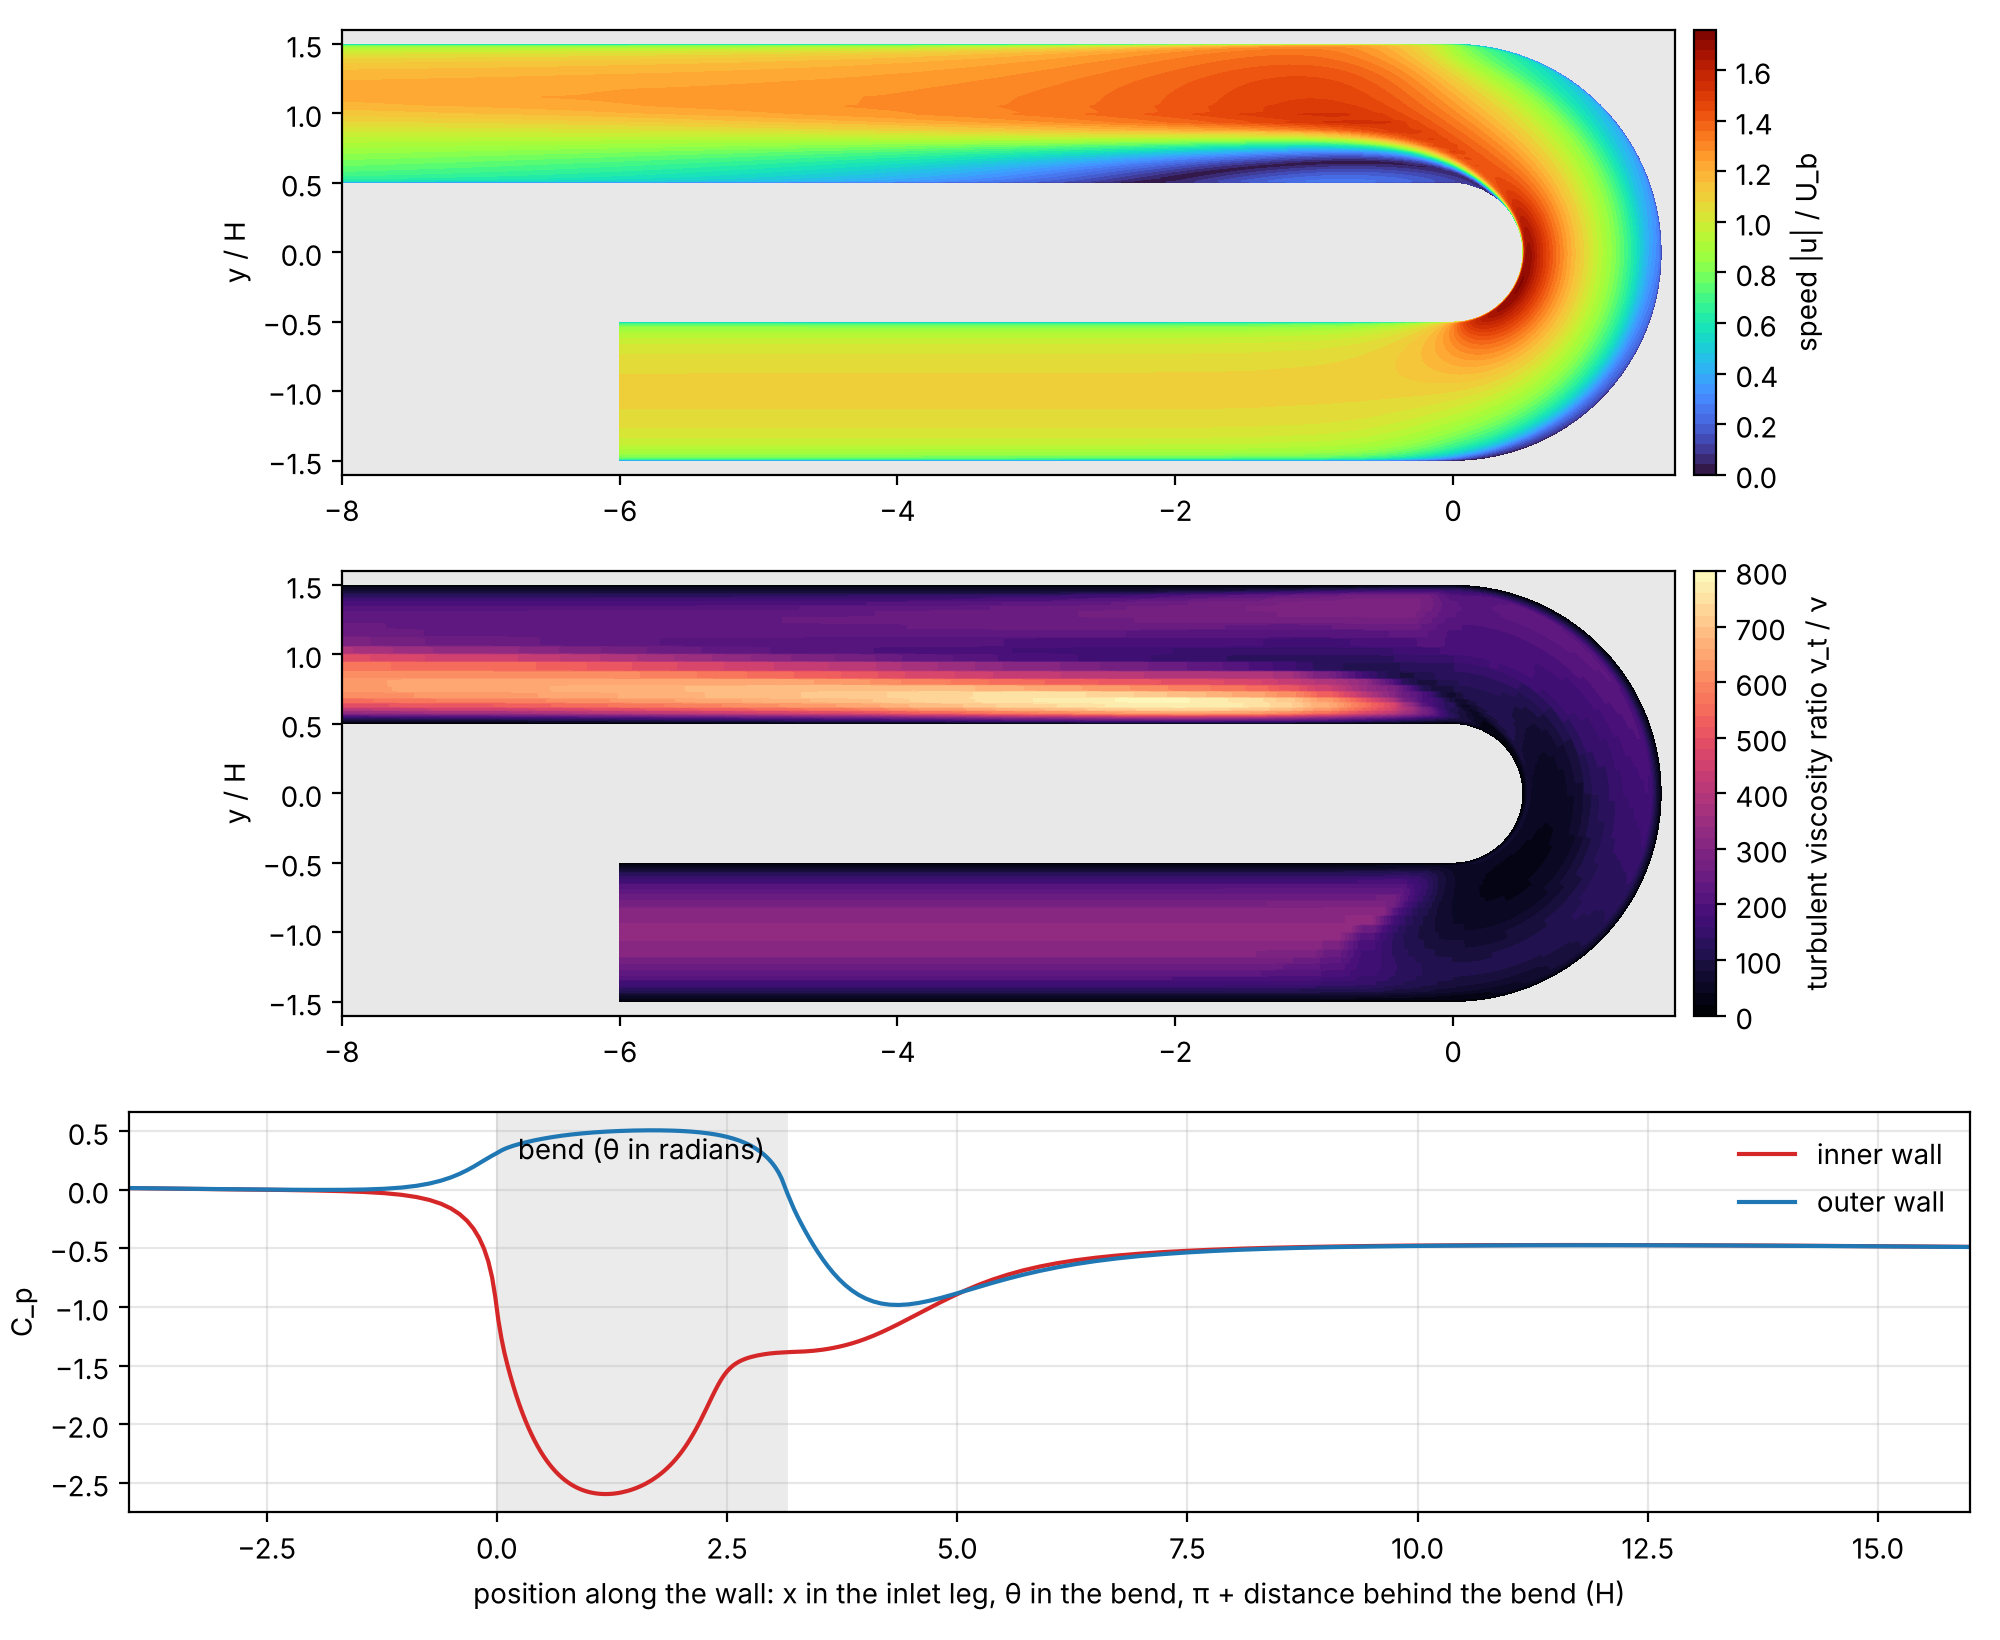
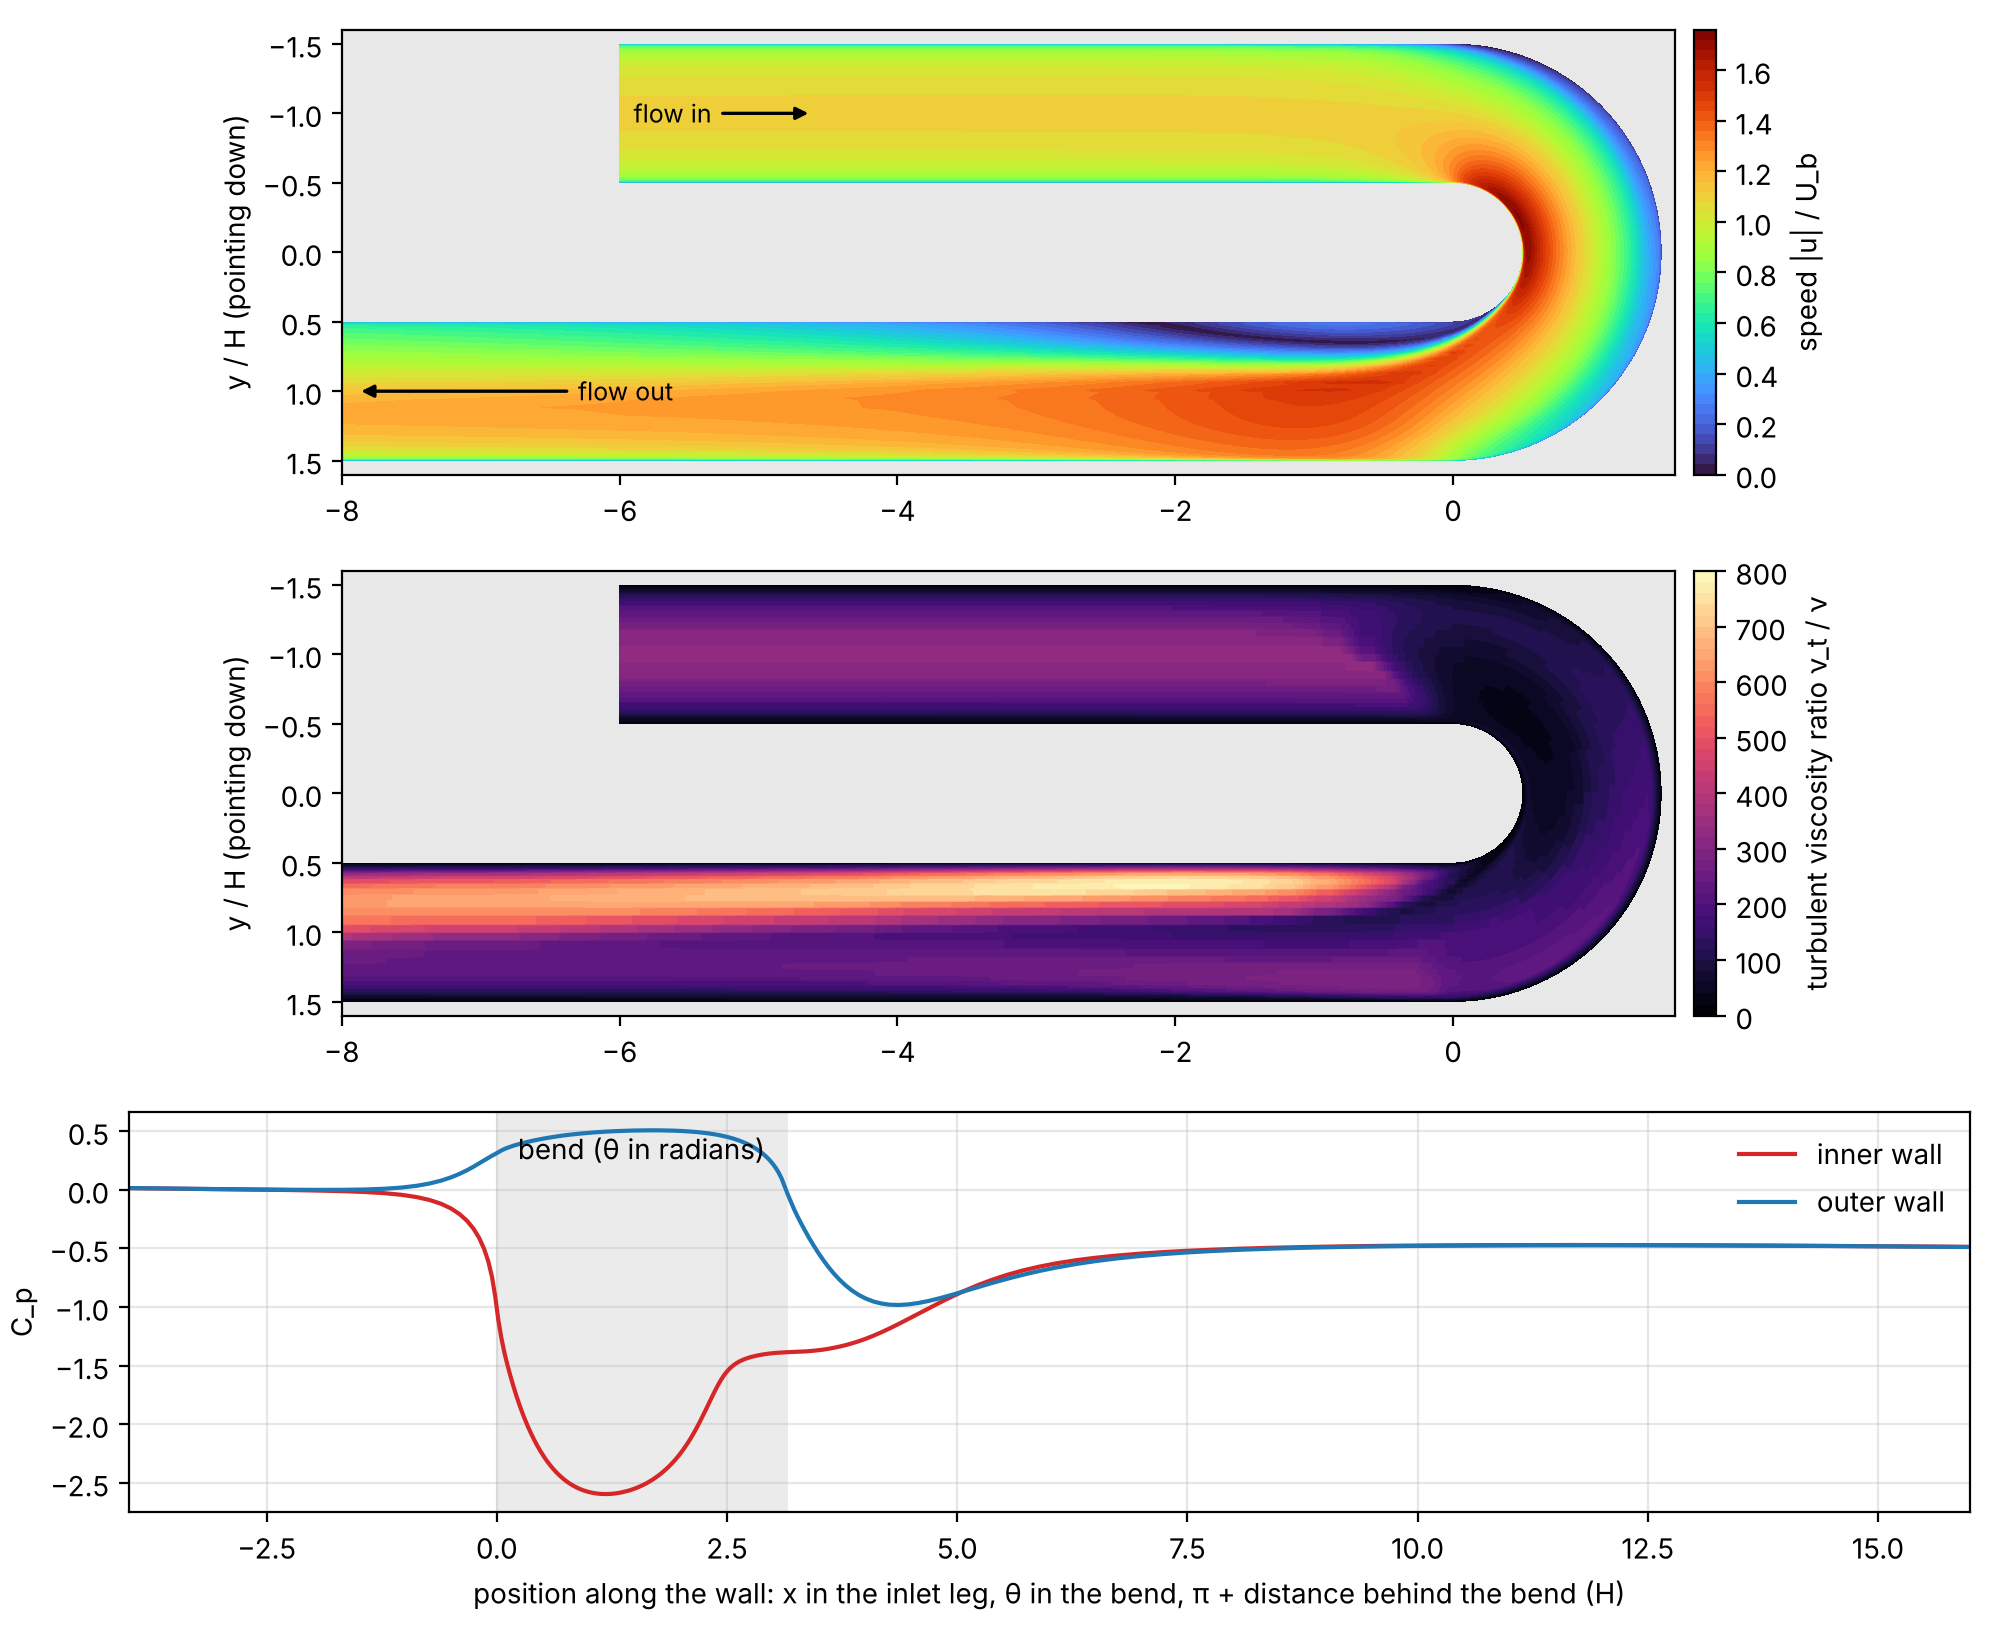
U-bend images: flow in at the upper left, out at the lower left (gallery 204) (#210)
* U-bend images drawn as in the literature: flow in at the upper left, out at the lower left (gallery 204)

Claude-Session: https://claude.ai/code/session_012imjwn8pJJno4y7U68qNUF

* changelog fragment for #210

Claude-Session: https://claude.ai/code/session_012imjwn8pJJno4y7U68qNUF

---------

diff --git a/tools/plot/ubend_chart.py b/tools/plot/ubend_chart.py
@@ -112,8 +112,17 @@ def main(argv) -> None:
         ax = fig.add_subplot(gs[k])
         t = ax.tricontourf(tri, v, levels=48, cmap=cmap)
         fig.colorbar(t, ax=ax, label=lab, pad=0.01)
-        ax.set_aspect("equal"); ax.set_xlim(-8, 1.6); ax.set_ylim(-1.6, 1.6); ax.set_ylabel("y / H")
+        # Drawn as in the literature: flow in at the upper left, out at the
+        # lower left. The y axis points down (coordinates as in the case
+        # file, the picture mirrored about the duct axis y = 0), so inner and
+        # outer walls and the bend stay where the case has them.
+        ax.set_aspect("equal"); ax.set_xlim(-8, 1.6); ax.set_ylim(1.6, -1.6)
+        ax.set_ylabel("y / H (pointing down)")
         ax.set_facecolor("#e8e8e8")
+        if k == 0:
+            kw = dict(arrowprops=dict(arrowstyle="-|>", color="k", lw=1.2), color="k", fontsize=9, va="center")
+            ax.annotate("flow in", xy=(-4.6, -1.0), xytext=(-5.9, -1.0), **kw)
+            ax.annotate("flow out", xy=(-7.9, 1.0), xytext=(-6.3, 1.0), **kw)
     ax = fig.add_subplot(gs[2])
     outer, inner = g.along(d, "outer"), g.along(d, "inner")
     p0 = g.p_at(outer, g.station(-2.0, -1.5))

diff --git a/docs/gallery/turbulence.md b/docs/gallery/turbulence.md
@@ -1345,7 +1345,11 @@ python3 -m tools.plot.diffuser_chart docs/figures/gallery/diffuser_sst.png
 <a id="ubend"></a>
 ## 204. U-bend of Rc/H = 1: separation behind a 180° turn, three meshes with GCI, sharp edges
 
-<img src="../figures/gallery/ubend_sst.png" alt="Turbulent flow through a two-dimensional U-duct with a centreline radius of one duct height, k-omega SST, coarse mesh. Top: speed, accelerated along the inner wall of the turn and a thin slow region on the inner wall behind the turn where the flow separates; the fast flow is pushed to the outer wall of the outlet leg. Middle: turbulent viscosity ratio, largest in the shear layer above the separated region. Bottom: wall pressure coefficient along the inner and the outer wall, a suction of minus 2.5 on the inner wall in the turn and a rise to plus 0.5 on the outer wall" width="800" height="656">
+<img src="../figures/gallery/ubend_sst.png" alt="Turbulent flow through a two-dimensional U-duct with a centreline radius of one duct height, k-omega SST, coarse mesh, drawn with the flow entering at the upper left and leaving at the lower left. Top: speed, accelerated along the inner wall of the turn and a thin slow region on the inner wall behind the turn where the flow separates; the fast flow is pushed to the outer wall of the outlet leg. Middle: turbulent viscosity ratio, largest in the shear layer above the separated region. Bottom: wall pressure coefficient along the inner and the outer wall, a suction of minus 2.5 on the inner wall in the turn and a rise to plus 0.5 on the outer wall" width="800" height="656">
+
+The field images are drawn as in the literature, with the flow entering at
+the upper left and leaving at the lower left: the y axis points down, so
+the coordinates are those of the case file and the mesh.
 
 The fourth general-purpose internal flow of D45 (stage 8): the
 two-dimensional U-duct of Monson, Seegmiller & McConnaughey (1990, AIAA
@@ -1449,7 +1453,7 @@ past 10 000 iterations is against the run rules (AGENTS.md); a faster
 route to the steady state of the sharp turn on fine meshes (a transient
 run from the level-2 state, or a stronger start) is open.
 
-<img src="../figures/gallery/ubend_sharp.png" alt="The same duct with sharp edges, coarse mesh. Top: speed; the flow turns in a jet around the square divider end, with slow corner vortices at the end wall and a long separated region on the divider behind the turn. Middle: turbulent viscosity ratio, large in the shear layers of the separated regions. Bottom: wall pressure coefficient along the inner and the outer wall, a suction of minus 3.5 on the divider end and a loss of about minus 1.05 behind the turn" width="800" height="656">
+<img src="../figures/gallery/ubend_sharp.png" alt="The same duct with sharp edges, coarse mesh, flow in at the upper left and out at the lower left. Top: speed; the flow turns in a jet around the square divider end, with slow corner vortices at the end wall and a long separated region on the divider behind the turn. Middle: turbulent viscosity ratio, large in the shear layers of the separated regions. Bottom: wall pressure coefficient along the inner and the outer wall, a suction of minus 3.5 on the divider end and a loss of about minus 1.05 behind the turn" width="800" height="656">
 
 - **There is no comparison with the measurements of Monson et al.**
   (owner decision 2026-11-22: GCI first, reference later, D201); the

diff --git a/changelog.d/210-ubend-images-flip.md b/changelog.d/210-ubend-images-flip.md
@@ -1,0 +1,4 @@
+- **U-bend images drawn as in the literature (gallery 204).** The field
+  images of the U-duct now show the flow entering at the upper left and
+  leaving at the lower left, with inlet and outlet arrows; the case, the
+  mesh and the results are unchanged.
